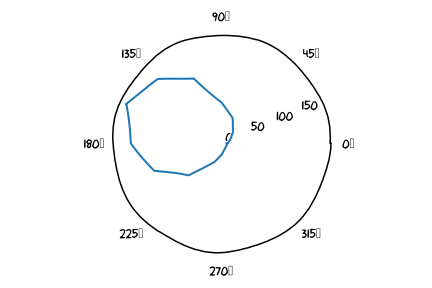
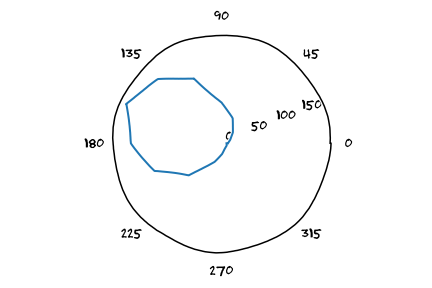
Removed weird degree symbol on xkcd plots

diff --git a/xkcd_polarplot.py b/xkcd_polarplot.py
@@ -5,10 +5,16 @@ plt.xkcd()
 def matplotlib_polarplot(theta, rho, save):
     ax = plt.subplot(111, projection='polar')
     ax.plot(theta, rho)
-    # plt.show()
+
     if save:
         plt.savefig('plots/xkcd_polarplot')
+    else:
+        plt.show()
 
 theta = np.array([0,0.3927,0.7854,1.1781,1.5708,1.9635,2.3562,2.7489,3.1416,3.5343,3.9270,4.3197,4.7124,5.1051,5.4978,5.8905,6.2832])
 rho = np.array([4,9,20,41,66,121,155,181,156,124,76,27,11,4,2,2,1])
+
+# Plot and save to file
 matplotlib_polarplot(theta, rho, True)
+# Just show plot
+# matplotlib_polarplot(theta, rho, False)
